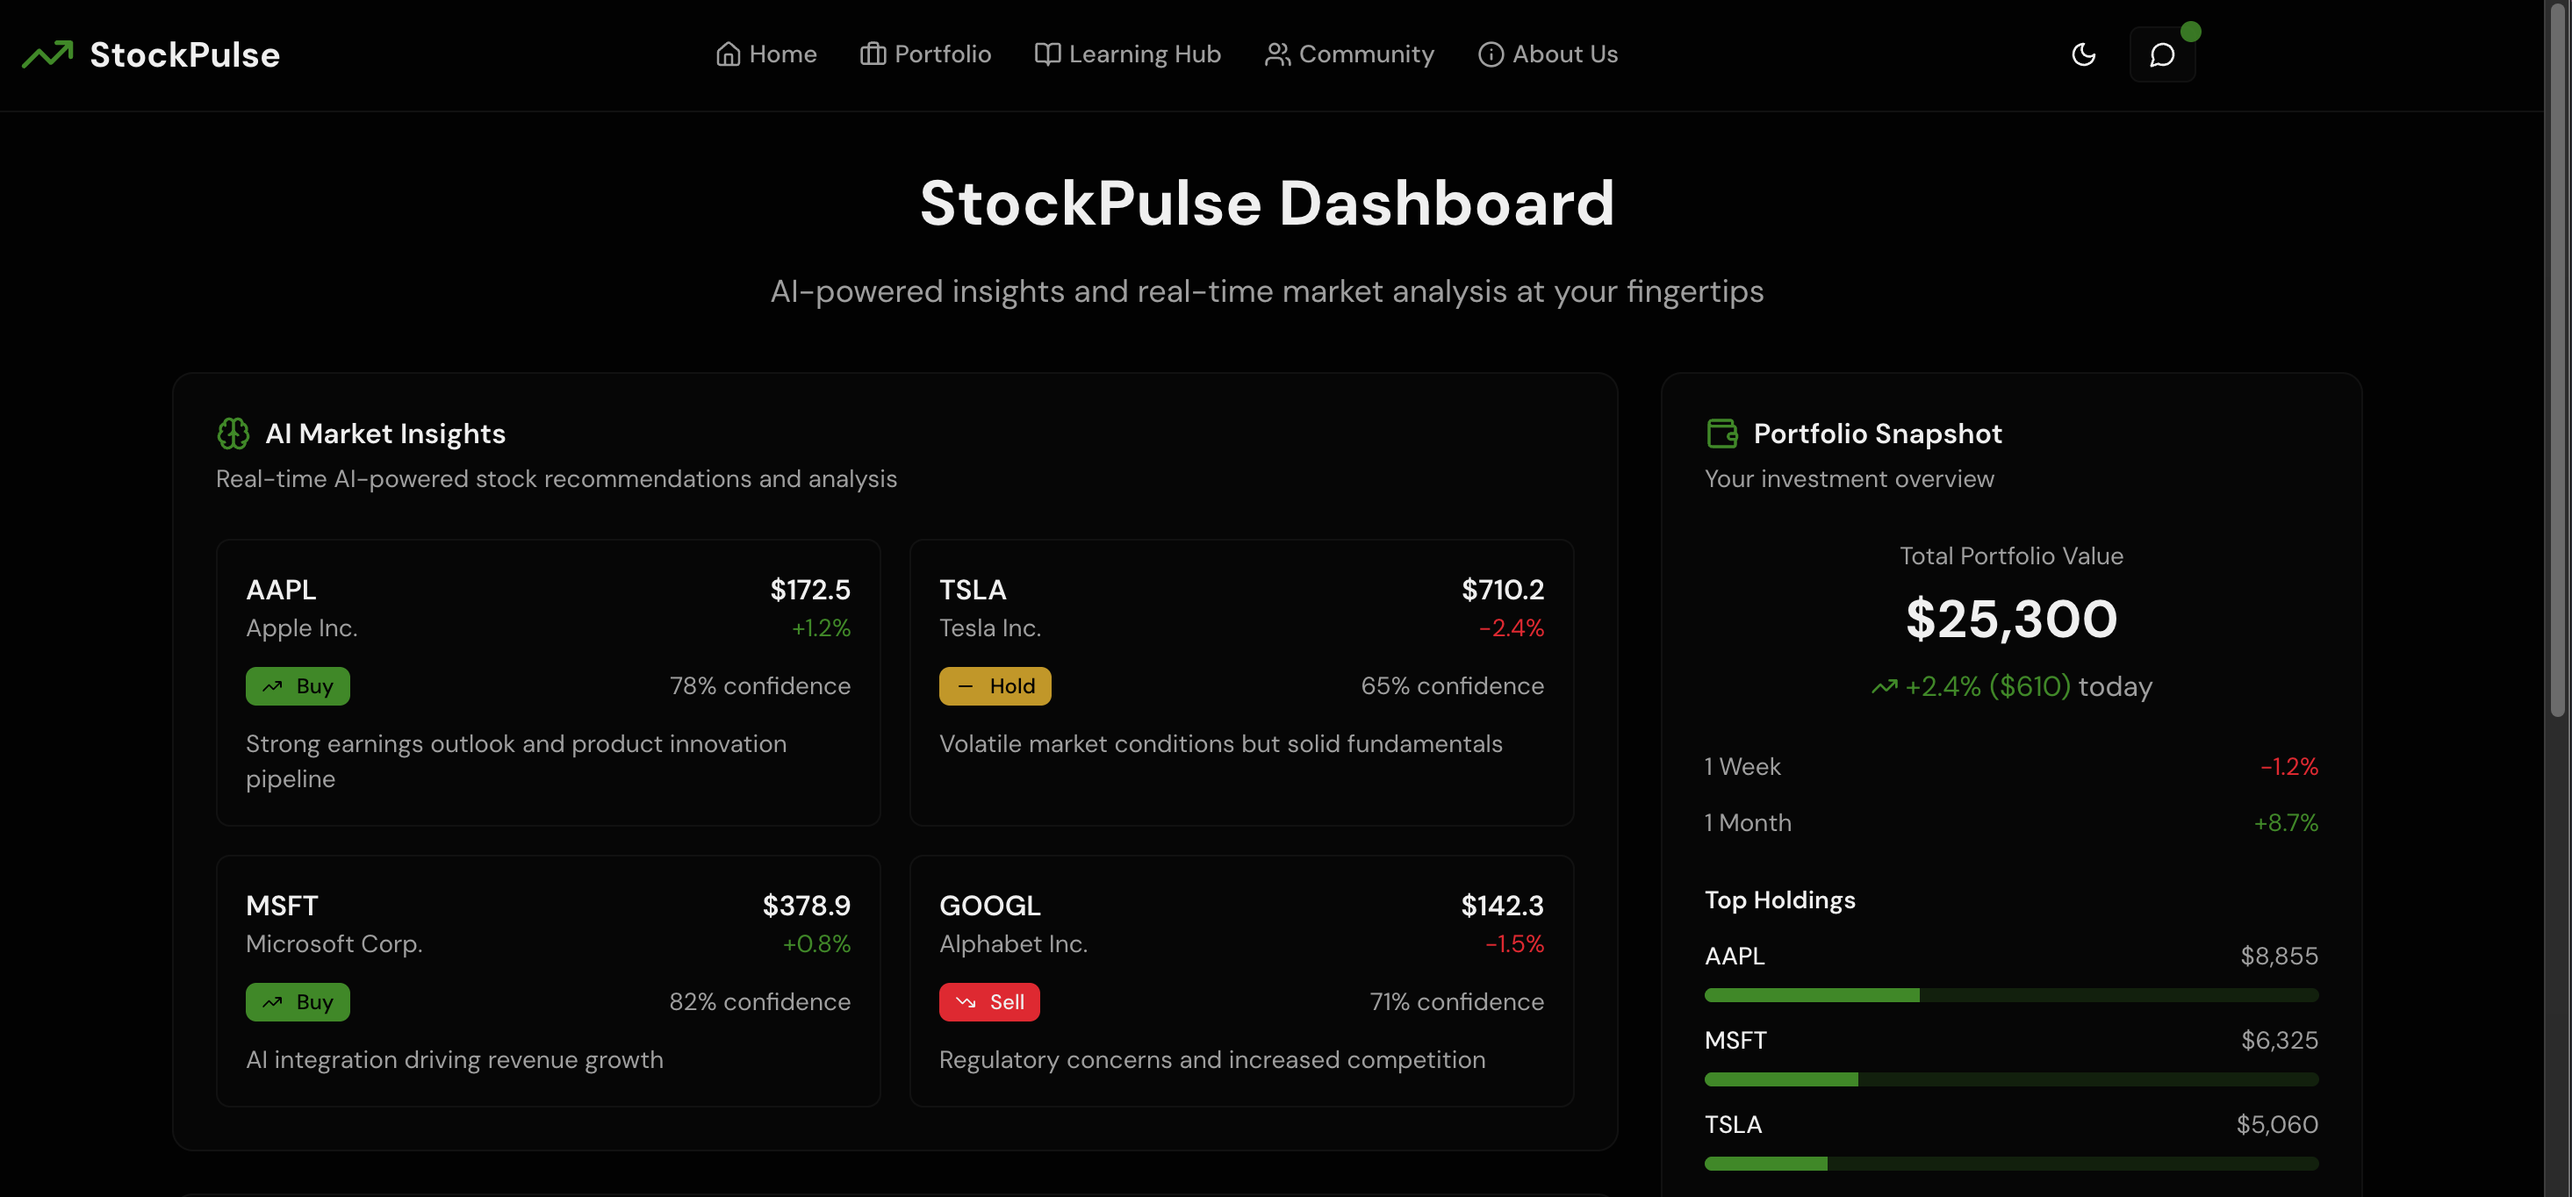
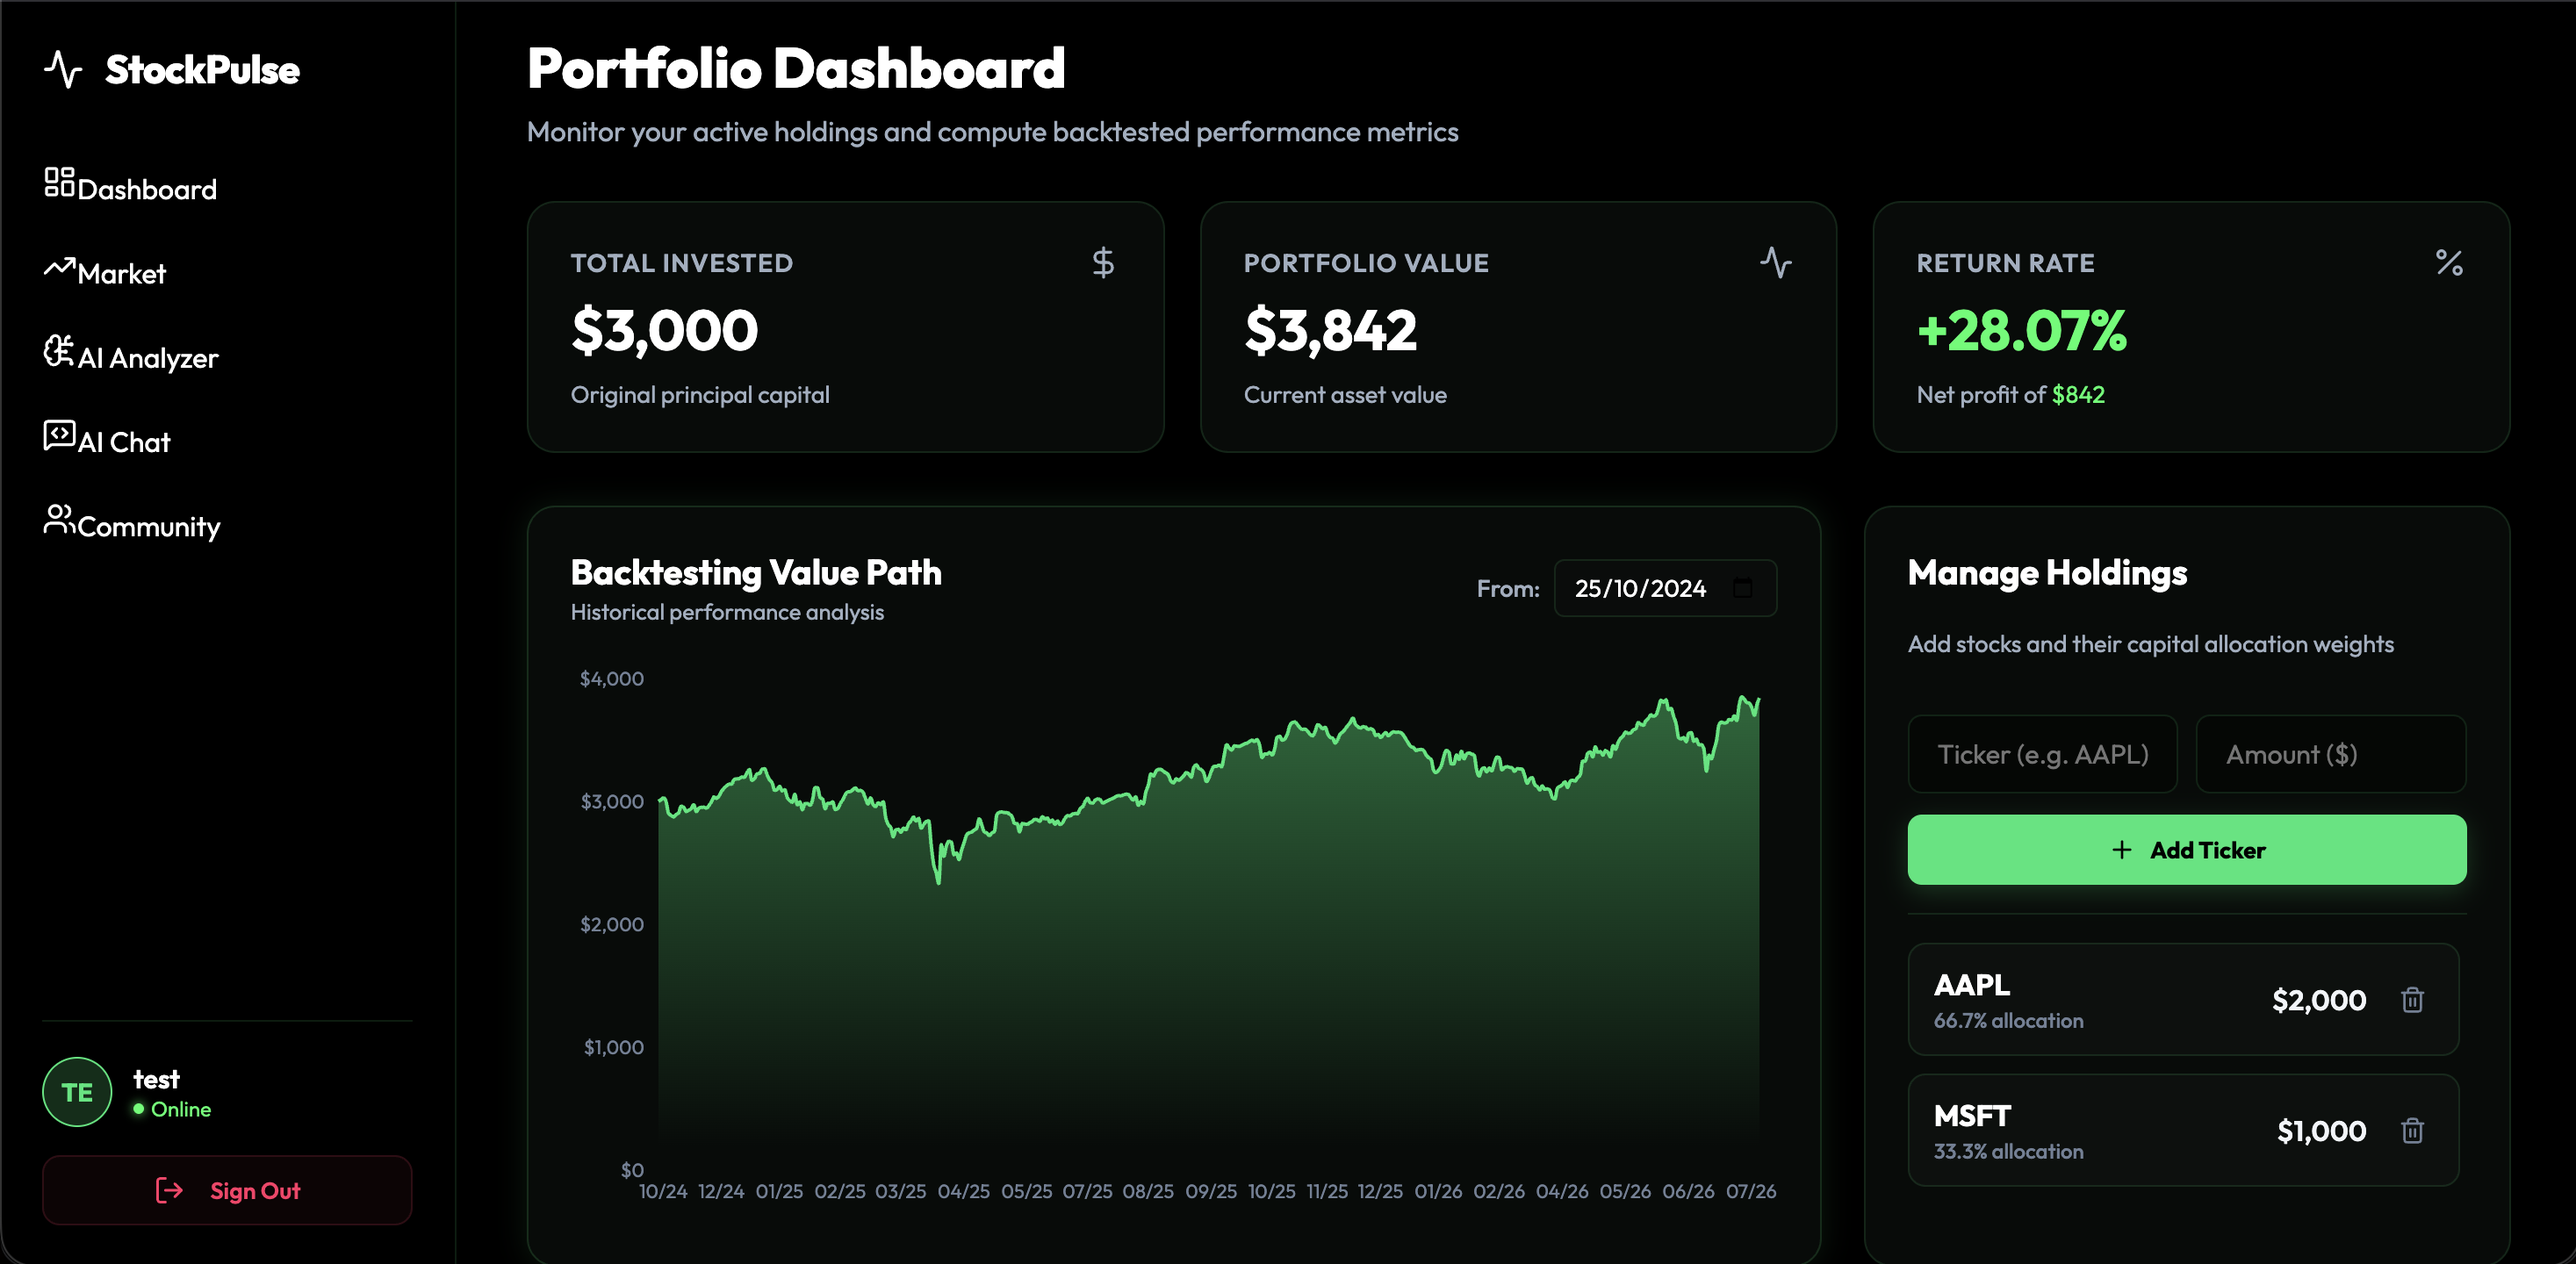
pics and link updates

diff --git a/src/data/index.js b/src/data/index.js
@@ -6,7 +6,6 @@ import project5 from "../assets/Projects/project-5.png";
 import drdo from "../assets/Experience/drdoLogo.png";
 import forageai from "../assets/Experience/forageaiLogo.png";
 import valency from "../assets/Experience/valencyLogo.png";
-import deradh from "../assets/Experience/deradhLogo.png";
 import sih from "../assets/Achievements/sihLogo.png";
 import bwave from "../assets/Achievements/bwaveLogo.png";
 import acm from "../assets/Achievements/acmLogo.png";
@@ -14,12 +13,25 @@ import howasp from "../assets/Achievements/howaspLogo.png";
 import dsai from "../assets/Achievements/dsaiLogo.png";
 import tiet from "../assets/Achievements/tietLogo.png";
 import amazon from "../assets/Achievements/amazonLogo.png";
+import zotik from "../assets/Experience/zotikLogo.png";
 
 export const HERO_CONTENT = `I am a passionate AI/ML and Backend Engineer that enjoys working on impactful projects that challenge my limits, enhance user experience, and drive business growth. My interests also extend to research, particularly in the field of Computer Vision, Large Language Models and Multimodal AI. `;
 
 export const ABOUT_TEXT = `I am a final-year Computer Engineering student at Thapar Institute of Engineering and Technology, passionate about Artificial Intelligence, Machine Learning, and building intelligent systems for real-world problems. My experience spans classical machine learning, time series forecasting, NLP, large language models, computer vision, multimodal AI, and agentic AI. I also build end-to-end applications using FastAPI and Django on the backend, React on the frontend, and modern MLOps practices. Beyond development, I actively participate in and organize hackathons and technical events.`;
 
 export const EXPERIENCES = [
+  {
+    year : "May 2026 - July 2026",
+    role : "SDE Intern",
+    company : "Zotik",
+    description : [
+      "Delivered a production-ready Virtual Try-On and video generation microservice, with ~10s image generation and ~30s video generation.",
+      "Researched, implemented, and evaluated multiple VTON models to optimize generation quality and costs.",
+      "Architected asynchronous AI workflows using FastAPI, webhooks, and polling, enabling reliable long running inference with zero production downtime"
+    ],
+    technologies : ["Generative AI", "Diffusion Models", "FastAPI", "PostgreSQL", "Docker"],
+    logo : zotik
+  },
   {
     year: "June 2025 - November 2025",
     role: "AI Intern",
@@ -46,26 +58,16 @@ export const EXPERIENCES = [
     logo: forageai
   },
   {
-    year: "March 2025 - June 2025",
+    year: "March 2025 - May 2025",
     role: "SDE Intern",
     company: "Valency Energy",
     description: [
-      "Partnered in designing and implementing scalable RESTful APIs to support customer and vendor facing agents in the solar energy components sector, ensuring high performance and reliability.",
+      "Partnered in implementing and deploying scalable RESTful APIs to support customer and vendor facing agents in the solar energy components sector, ensuring high performance and reliability.",
       "Improved operational efficiency through optimised API workflows and system design."
     ],
     technologies: ["FastAPI", "MongoDB", "RBAC", "OAuth 2.0", "GCP"],
     logo: valency
-  },
-  {
-    year: "August 2024 - December 2024",
-    role: "AI/ML Development Intern",
-    company: "Deradh",
-    description: [
-      "Implemented and optimized the company's virtual try on feature through collaborative R&D, exploring state of the art models like Diffusion Models and GANs for greater realism and performance"
-    ],
-    technologies: ["Diffusion Models", "Generative Adversarial Networks", "Flask"],
-    logo: deradh
-  },
+  }
 ];
 
 export const PROJECTS = [
@@ -78,7 +80,7 @@ export const PROJECTS = [
     ],
     technologies: ["CrewAI", "Django REST", "Websockets", "Next", "PostgreSQL"],
     link: "https://github.com/Armaan457/StockPulse",
-    live: ""
+    live: "https://stockpulse.armaanjagirdar.me/"
   },
   {
     title: "AgriVerse",
